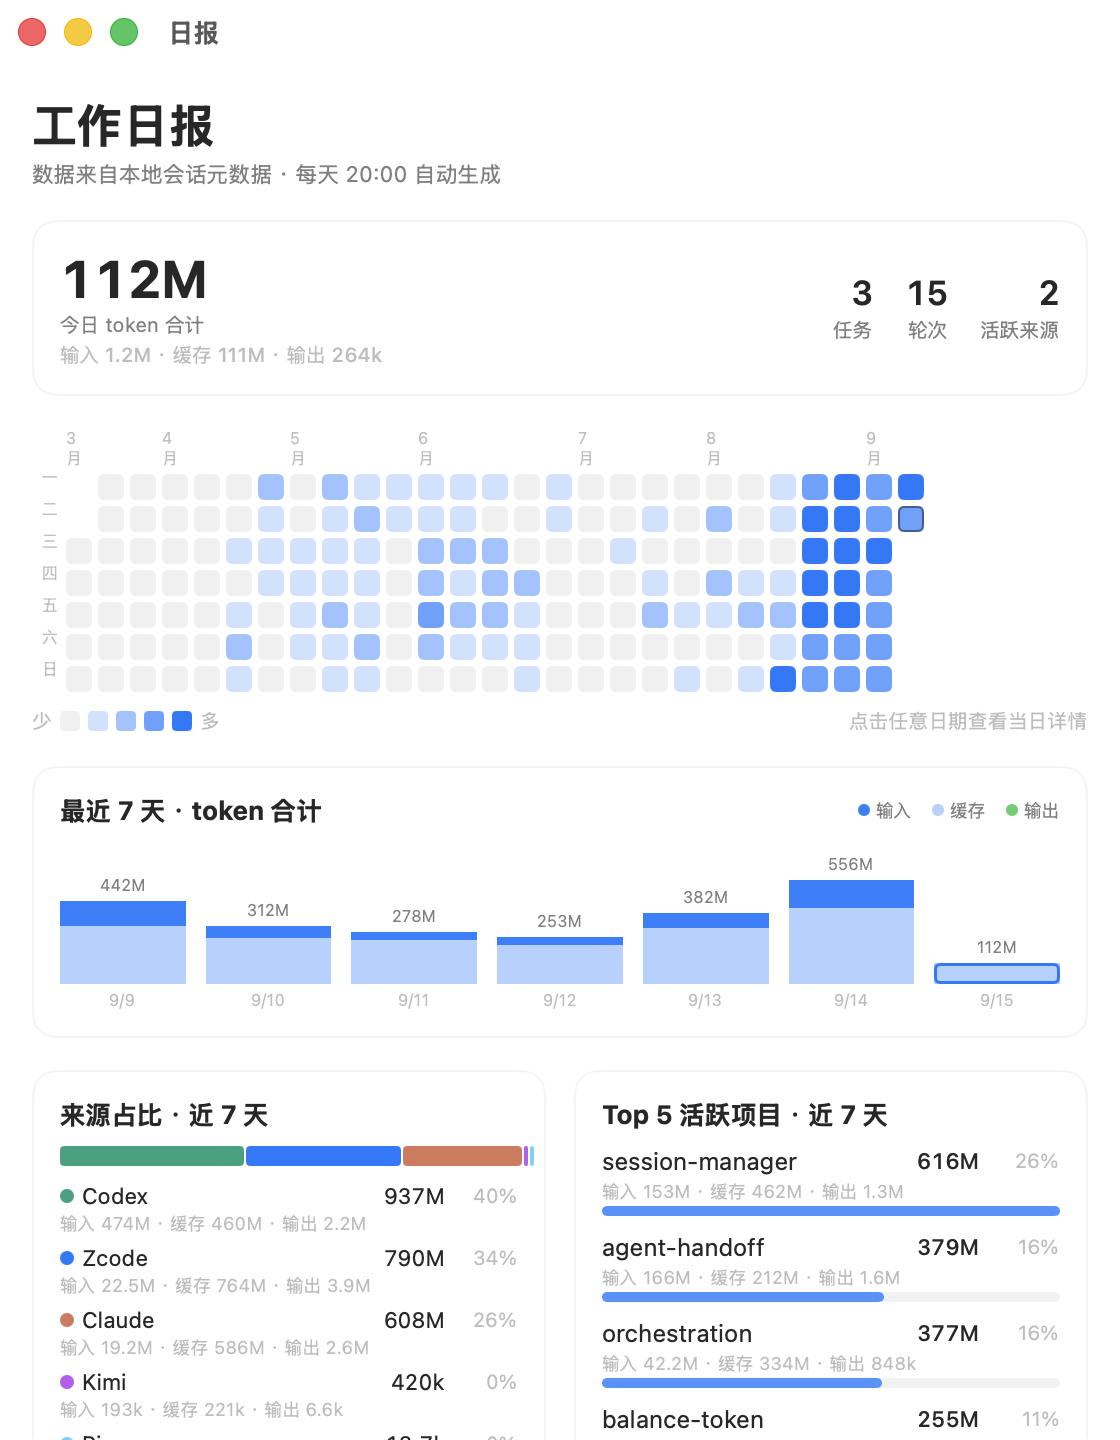
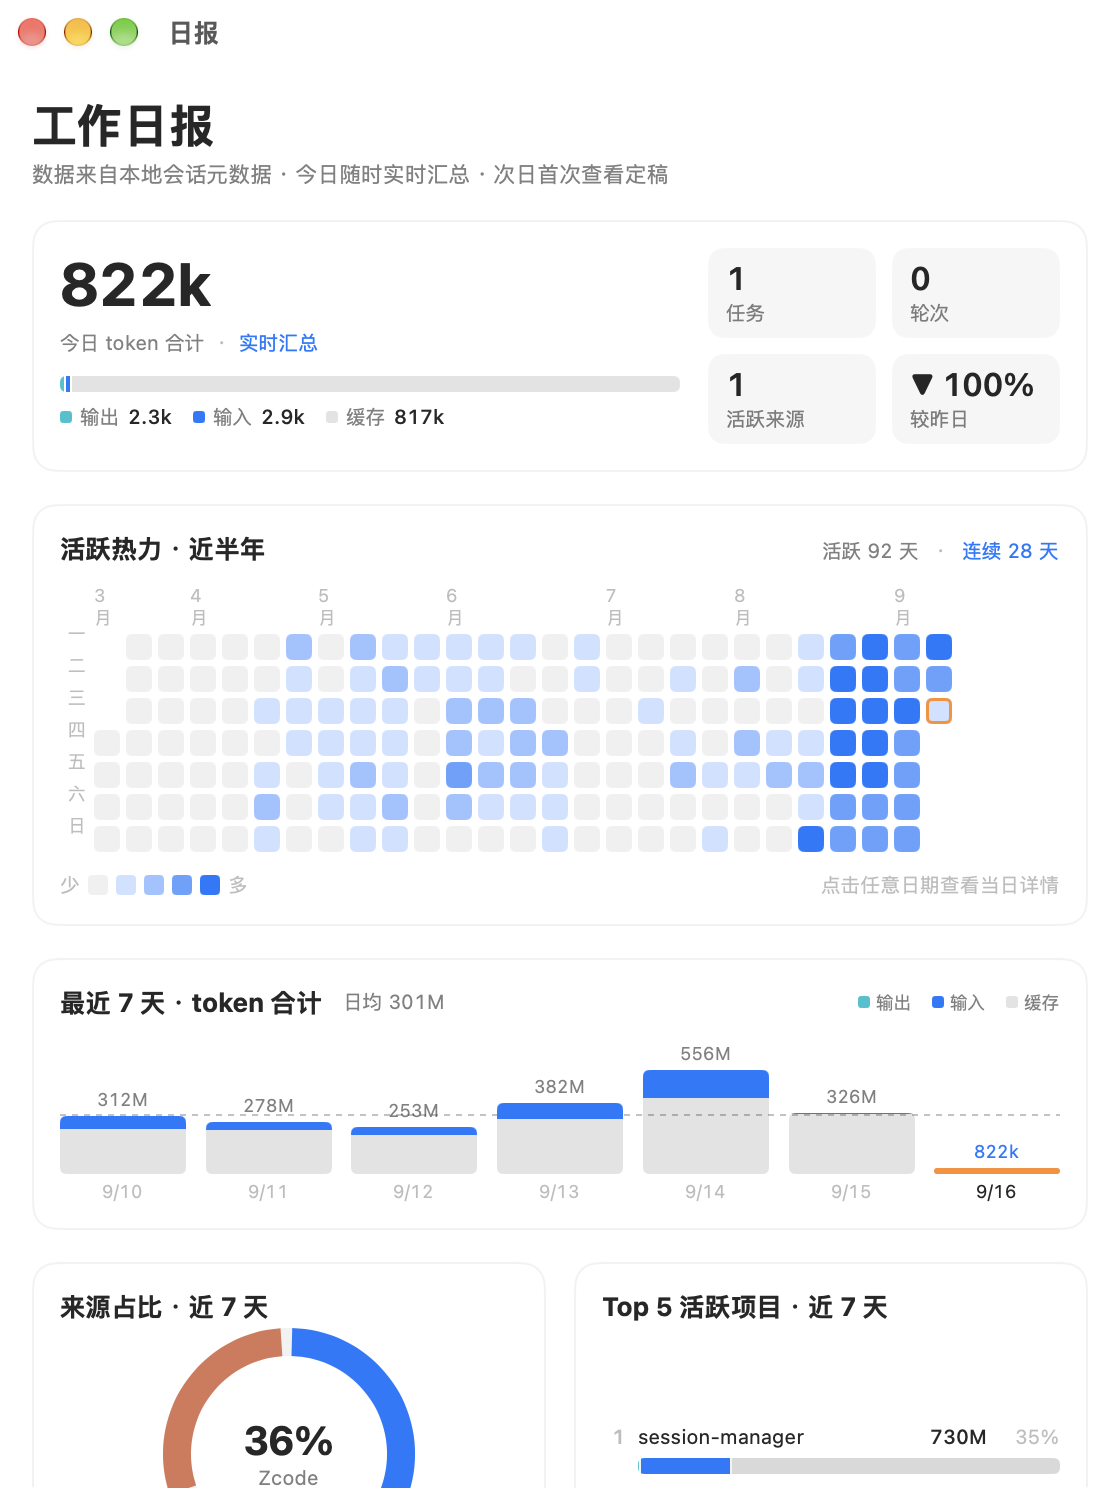
docs: refresh daily report screenshot, add day detail preview

diff --git a/README.zh-CN.md b/README.zh-CN.md
@@ -6,9 +6,9 @@ Agent Notification 是运行于 macOS 的本地会话收件箱：汇总 Codex、
 
 ## 界面预览
 
-| 待查看 | 全部会话 | 工作日报 |
-|---|---|---|
-| ![待查看列表](docs/images/inbox-pending.png) | ![全部会话列表](docs/images/inbox-all.png) | ![工作日报](docs/images/daily-report.png) |
+| 待查看 | 全部会话 | 工作日报 | 当日详情 |
+|---|---|---|---|
+| ![待查看列表](docs/images/inbox-pending.png) | ![全部会话列表](docs/images/inbox-all.png) | ![工作日报](docs/images/daily-report.png) | ![当日详情](docs/images/daily-report-day.png) |
 
 ## 项目组成
 

diff --git a/README.md b/README.md
@@ -8,9 +8,9 @@ Agent Notification is a local session inbox for macOS: it aggregates Codex, Clau
 
 ## Interface preview
 
-| Pending | All sessions | Daily report |
-|---|---|---|
-| ![Pending list](docs/images/inbox-pending.png) | ![All sessions](docs/images/inbox-all.png) | ![Daily report](docs/images/daily-report.png) |
+| Pending | All sessions | Daily report | Day detail |
+|---|---|---|---|
+| ![Pending list](docs/images/inbox-pending.png) | ![All sessions](docs/images/inbox-all.png) | ![Daily report](docs/images/daily-report.png) | ![Day detail](docs/images/daily-report-day.png) |
 
 ## Components
 
